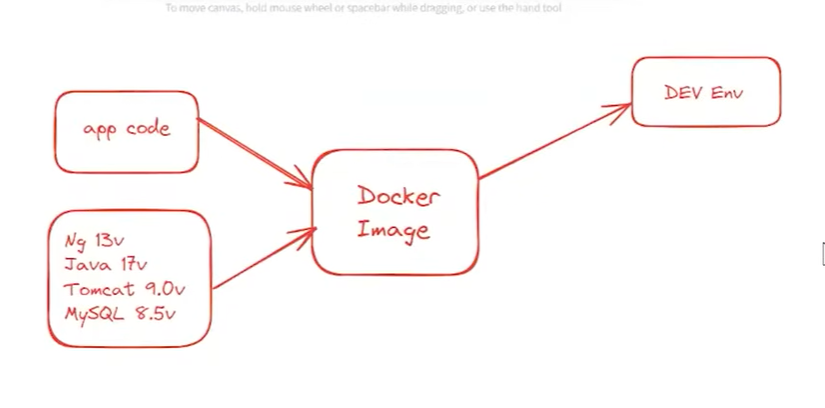
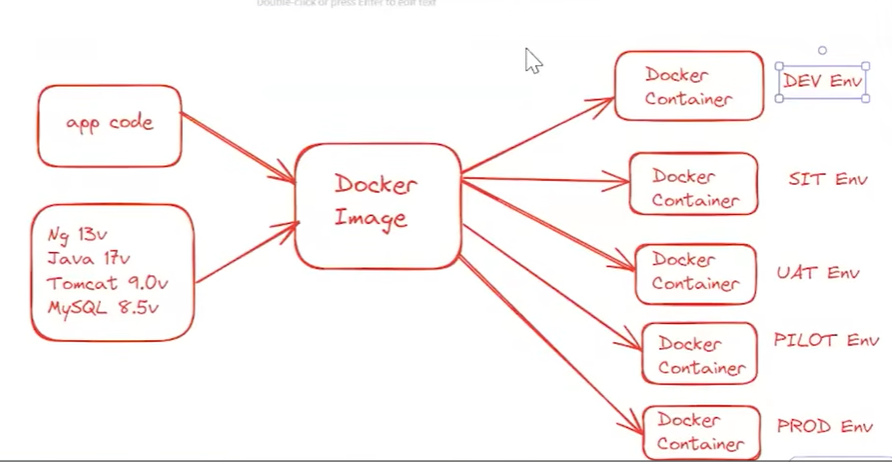
docs: enhance curriculum guides, build commands, non-root security, and environment architecture

diff --git a/commands.md b/commands.md
@@ -12,6 +12,7 @@
 | **`docker images`** | List all Docker images stored on your system | `docker images` |
 | **`docker ps`** | List currently running containers | `docker ps` |
 | **`docker ps -a`** | List all containers (running + stopped/exited) | `docker ps -a` |
+| **`docker build -t <name:tag> .`** | Build an image from a Dockerfile in current directory | `docker build -t my-app:1.0 .` |
 | **`docker pull <image>`** | Download an image from Docker Hub / Registry | `docker pull nginx` |
 | **`docker run <image>`** | Create and start a new container from an image | `docker run nginx` |
 | **`docker run -p <h:c> <image>`** | Run container with host-to-container port mapping | `docker run -p 8080:80 nginx` |
@@ -58,7 +59,25 @@ docker system prune -a
 
 ## 1. Image Operations
 
-### 1.1 `docker pull <image-name>`
+### 1.1 `docker build`
+Compiles an application and its runtime environment into a portable Docker image using instructions from a Dockerfile.
+
+```bash
+# 1. Build and tag with custom image name and version:
+docker build -t my-image-name:version .
+
+# 2. Build using a custom Dockerfile name or path (-f):
+docker build -f MyCustomFile -t my-image-name .
+
+# 3. Build from scratch without using cached layers (--no-cache):
+docker build --no-cache -t my-image-name .
+```
+
+* **`-t <name:tag>`**: Names and tags the image (`repository:version`). The trailing `.` specifies the build context (current folder).
+* **`-f <filename>`**: Specifies an alternate Dockerfile path or filename (defaults to `Dockerfile` if omitted).
+* **`--no-cache`**: Forces Docker to rebuild all steps from scratch without reusing previously cached layers.
+
+### 1.2 `docker pull <image-name>`
 Downloads an image from a remote registry (Docker Hub, GHCR) to your local machine without running it.
 
 ```bash
@@ -69,7 +88,7 @@ docker pull nginx
 docker pull node:20-alpine
 ```
 
-### 1.2 `docker images`
+### 1.3 `docker images`
 Displays all images currently stored on your local disk with their Repository, Tag, Image ID, Creation date, and Virtual Size.
 
 ```bash
@@ -83,7 +102,7 @@ nginx        latest    a6bd71f485c2   2 days ago     187MB
 node         20-alpine 8b5ec1e2d930   1 week ago     178MB
 ```
 
-### 1.3 `docker rmi <image-id / image-name>`
+### 1.4 `docker rmi <image-id / image-name>`
 Deletes one or more images from local disk.
 
 ```bash
@@ -361,6 +380,9 @@ docker system df
 
 | Flag | Full Name | Description | Example Usage |
 |:---|:---|:---|:---|
+| **`-t`** | `--tag` | Names and tags an image in `name:tag` format | `docker build -t my-app:1.0 .` |
+| **`-f`** | `--file` / `--force` / `--follow` | Custom Dockerfile path, force an action, or follow logs | `docker build -f MyCustomFile -t app .` |
+| **`--no-cache`** | `--no-cache` | Disables layer caching to rebuild all steps from scratch | `docker build --no-cache -t app .` |
 | **`-d`** | `--detach` | Runs container in the background, prints container ID | `docker run -d nginx` |
 | **`-p`** | `--publish` | Maps host port to container port (`<host>:<container>`) | `docker run -p 8080:80 nginx` |
 | **`--name`** | `--name` | Assigns a custom friendly name to the container | `docker run --name my-app nginx` |
@@ -368,7 +390,6 @@ docker system df
 | **`-e`** | `--env` | Injects environment variables into the container | `docker run -e NODE_ENV=prod app` |
 | **`-it`** | `--interactive --tty` | Opens an interactive terminal session | `docker exec -it my-app sh` |
 | **`-a`** | `--all` | Includes inactive/stopped items | `docker ps -a` |
-| **`-f`** | `--force` / `--follow` | Force operation, or stream live log feed | `docker rm -f my-app` / `docker logs -f my-app` |
 
 ---
 
@@ -393,3 +414,4 @@ docker system df
 * **[Track 2: Multi-Container Microservices](./02-multi-container/)** — Compose orchestration & internal DNS
 * **[Track 3: Host Database Bridge](./03-host-database-mysql/)** — Hybrid host database networking
 * **[Track 4: CI/CD Automation](./04-cicd-automation/)** — GHCR publishing and Watchtower auto-deployments
+

diff --git a/README.md b/README.md
@@ -87,9 +87,17 @@ Instead of installing language runtimes, web servers, and database drivers direc
 
 ### 2. The 5 Enterprise Application Environments
 
-<p align="center">
-  <img src="./docs/images/application-environments.png" alt="Enterprise Application Environments: DEV, SIT, UAT, PILOT, PROD" width="700"/>
-</p>
+```text
+=======================
+Application Environments
+=======================
+
+1) DEV   : Developers will use it for integration testing
+2) SIT   : Testing team will use it for system integration testing
+3) UAT   : Client will use it for user acceptance testing
+4) PILOT : Pre Production environment
+5) PROD  : Live Environment (end users can access our application running in prod)
+```
 
 | Environment | Primary Users | Purpose & Validation Scope | Docker & CI/CD Strategy |
 |:---|:---|:---|:---|
